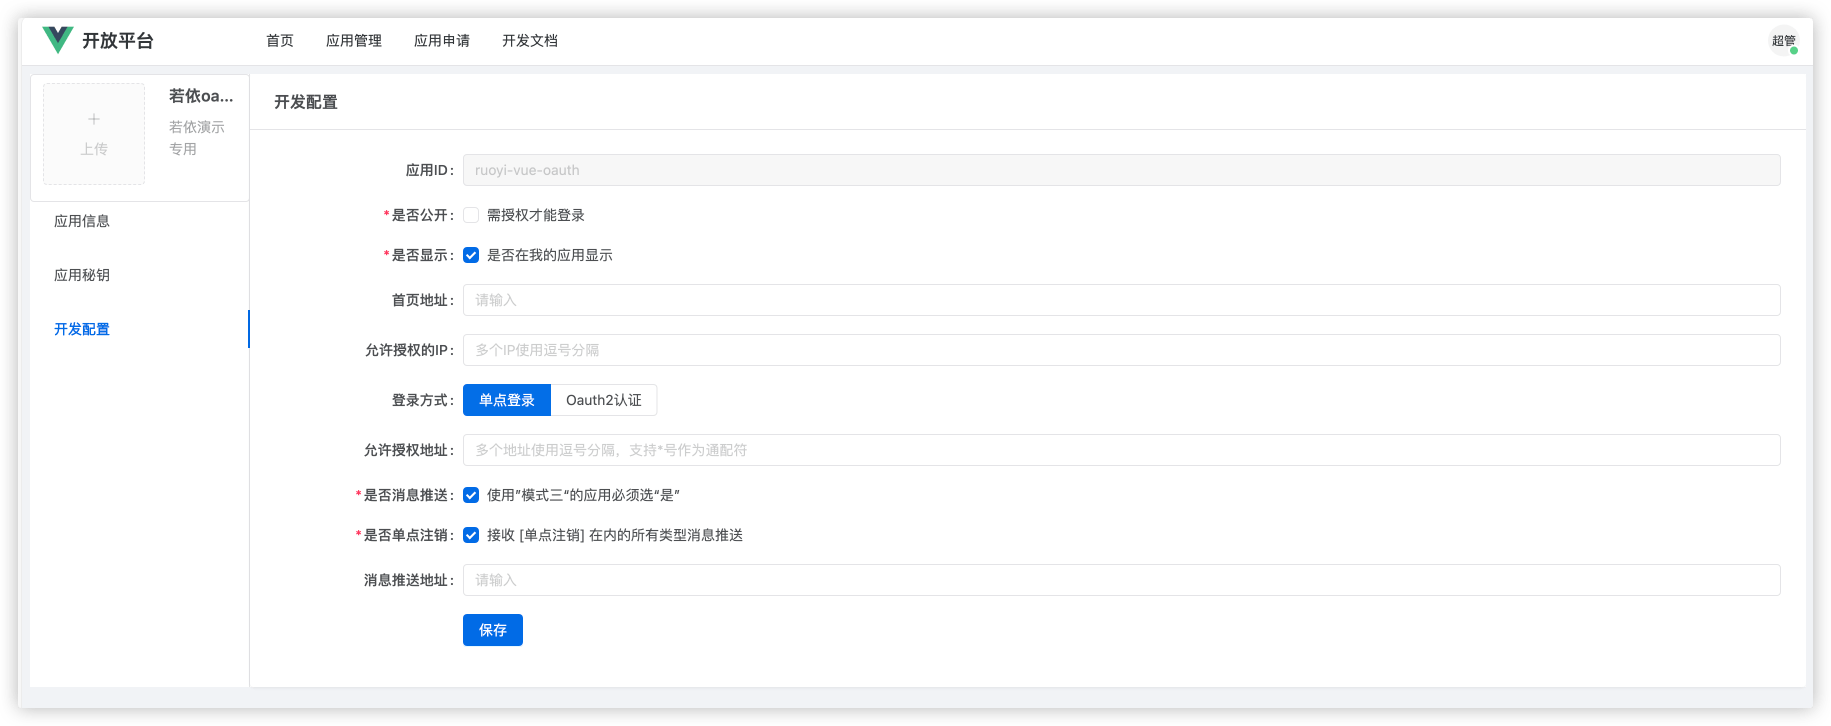
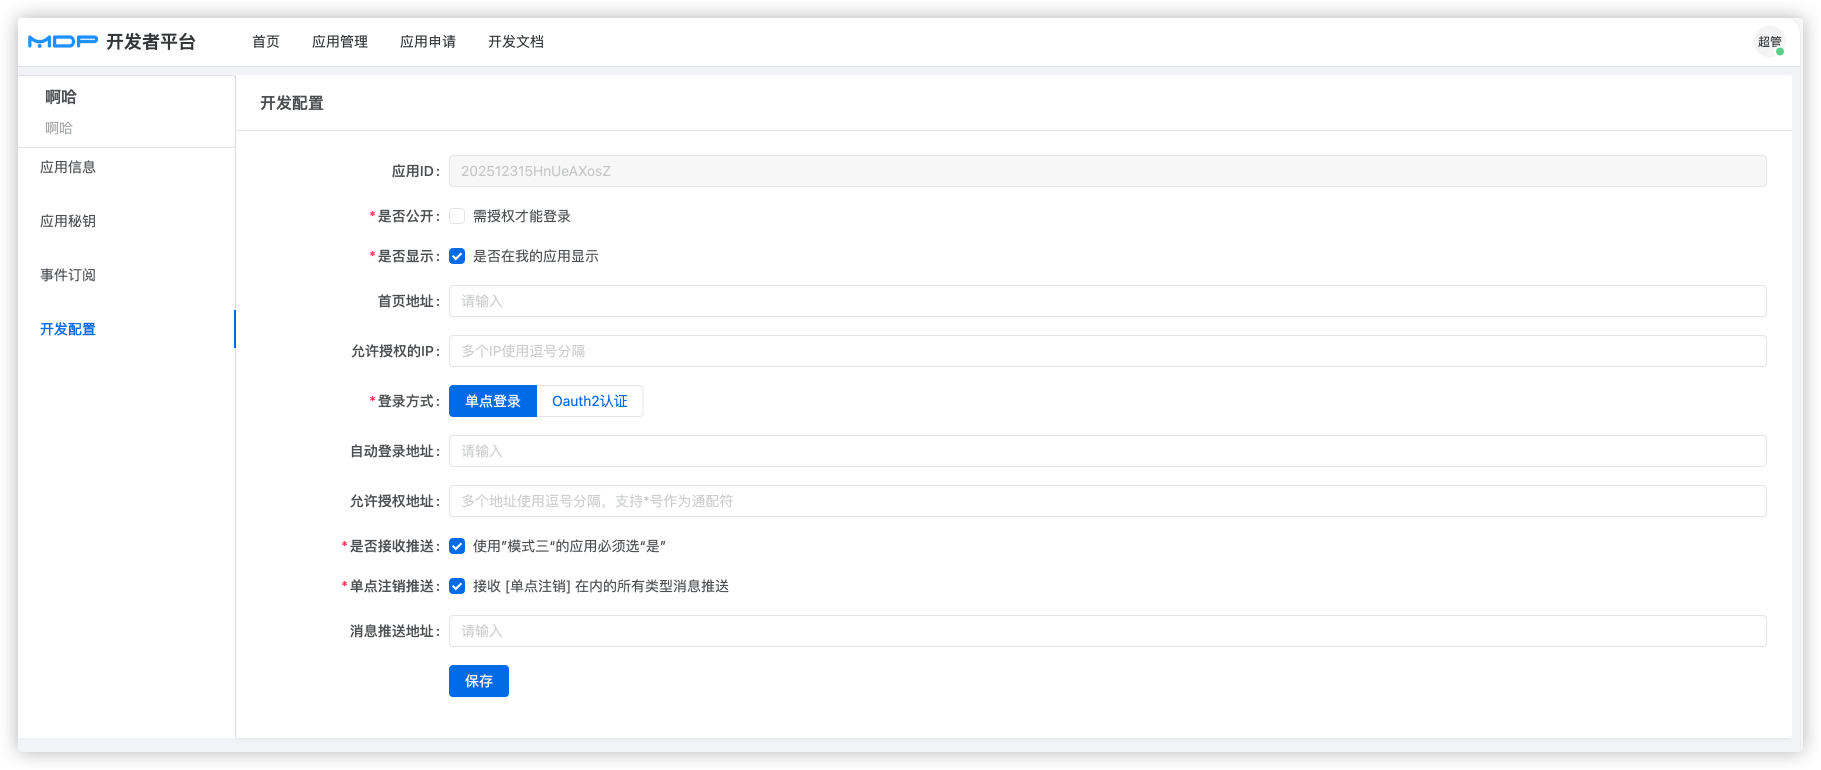
build: 0.0.7

diff --git a/README.md b/README.md
@@ -138,9 +138,14 @@
 - 我的应用
   ![](./docs/imgs/workbench/我的应用.png)
 - 个人中心
+  ![个人中心.png](docs/imgs/workbench/个人中心.png)  
 - 消息中心
+  ![消息中心.png](docs/imgs/workbench/消息中心.png)
+  ![消息查看.png](docs/imgs/workbench/消息查看.png)
 - 登录日志
+  ![登录日志.png](docs/imgs/workbench/登录日志.png)  
 - 安全设置
+  ![安全设置.png](docs/imgs/workbench/安全设置.png)  
 
 ### 控制台
 - 组织管理
@@ -165,6 +170,18 @@
   - ![](./docs/imgs/字典项新增.png)
 - 系统配置
   - ![](./docs/imgs/系统配置.png)
+- 消息管理
+    - ![](./docs/imgs/消息管理.png)
+    - ![](./docs/imgs/消息发布.png)
+- 消息模板
+    - ![](./docs/imgs/消息模板.png)
+    - ![](./docs/imgs/消息模板编辑.png)
+- 接口配置
+    - ![](./docs/imgs/接口配置.png)
+    - ![](./docs/imgs/接口配置-编辑.png)
+- 接口统计
+    - ![](./docs/imgs/接口统计.png)
+    - ![](./docs/imgs/接口统计-日志.png)
 - 应用管理
   - ![](./docs/imgs/应用管理.png)
   - ![](./docs/imgs/应用秘钥.png)
@@ -173,12 +190,14 @@
   ![](./docs/imgs/应用审核.png)
 - 开放接口
   ![](./docs/imgs/开放接口.png)
-- 开放文档
+- 文档管理
   ![](./docs/imgs/开放文档.png)
 - 权限组
   ![](./docs/imgs/权限组.png)
 - Oauth2权限
   ![](./docs/imgs/Oauth2权限.png)
+- 事件管理
+  ![](./docs/imgs/事件管理.png)
 
 
 ### 开发者平台
@@ -190,6 +209,7 @@
 - 应用管理
   - ![](./docs/imgs/open/应用管理-应用信息.png)
   - ![](./docs/imgs/open/应用管理-应用秘钥.png)
+  - ![](./docs/imgs/open/应用管理-事件订阅.png)
   - ![](./docs/imgs/open/应用管理-开发配置.png)
 - 开发文档
   - ![](./docs/imgs/open/开发文档.png)